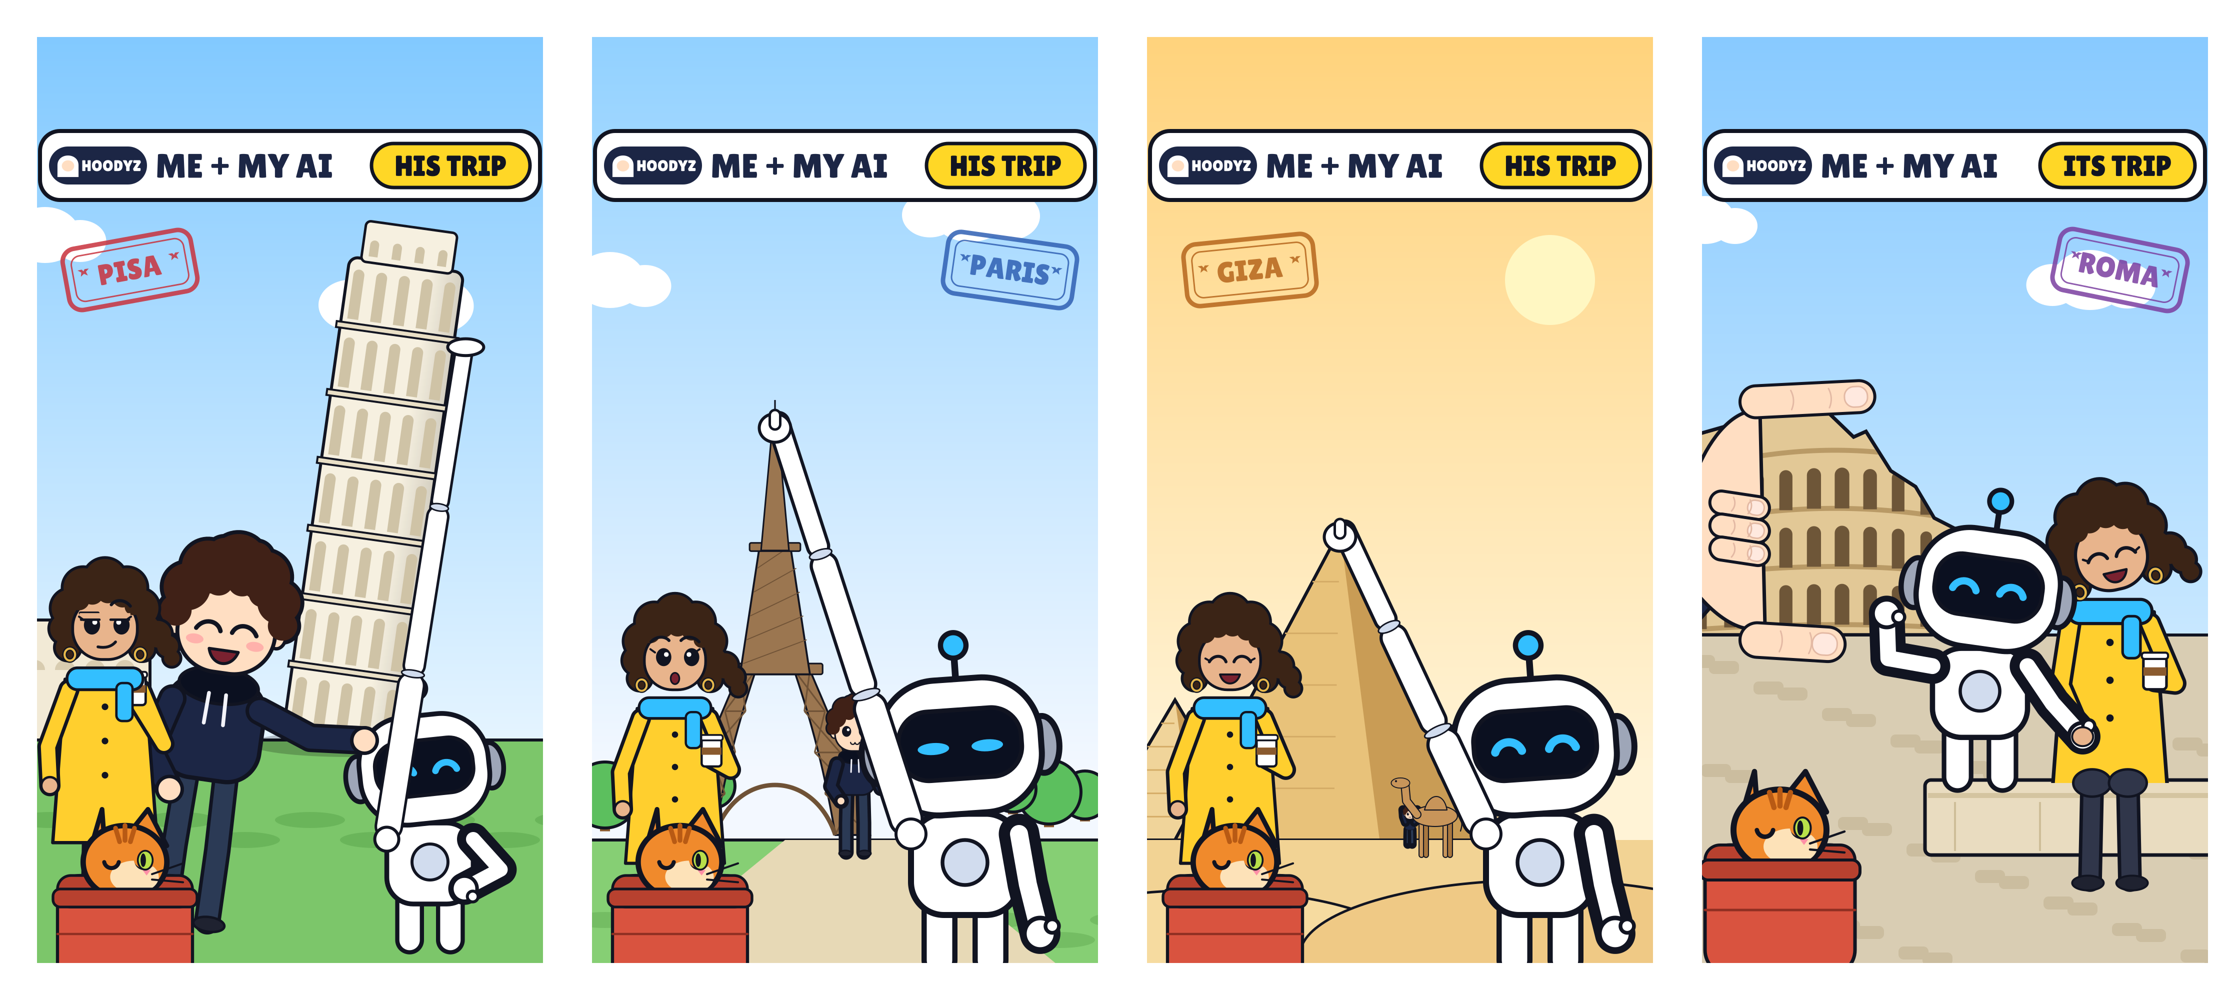
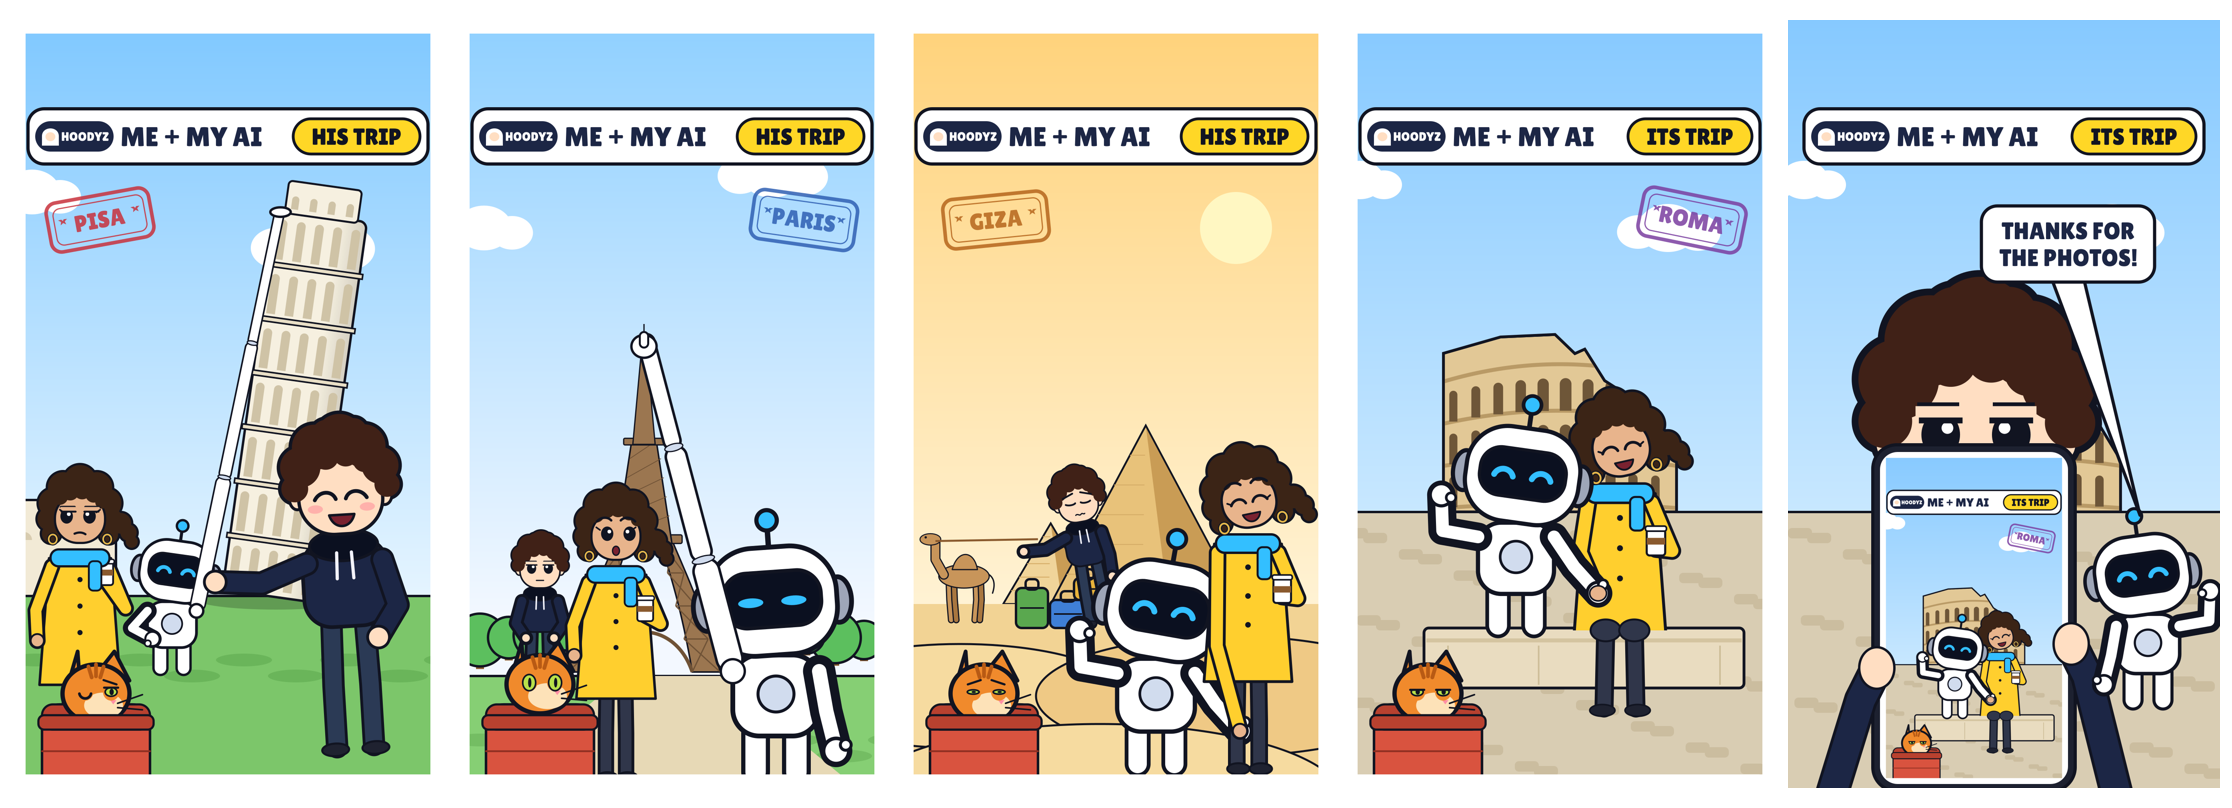
Perfect Trip v4 album: Hoody loses his role (hero, extra, assistant, cameraman)
Pisa: Hoody the hero in front, MY AI propping the top with its telescopic arm, Eva bored.
Paris: Hoody a small annoyed extra at the left, Eva turned to the robot. Giza: MY AI and Eva
pose hand in hand while Hoody drags the luggage and a camel that won't budge. Rome: the couple,
no Hoody; then the reveal - the photo on the phone in his hands, MY AI: THANKS FOR THE PHOTOS!
The cat's mood changes per photo: suspicious, shocked, disapproving, resigned.

Claude-Session: https://claude.ai/code/session_01ED8DLRS3kXn1pdhXqYBM3Q

diff --git a/perfect-selfie/trip_photos.py b/perfect-selfie/trip_photos.py
@@ -1,100 +1,179 @@
-"""Perfect Trip - the three album photos before Rome, as stills for approval.
-Each photo: the place, MY AI's perfect forced-perspective pose, Hoody's failed copy (smaller every time), Eva charmed by
-the robot, and the cat's head out of the backpack in the same bottom-left corner. python3 trip_photos.py writes trip_photos.png."""
+"""Perfect Trip - the album, v4: Hoody loses his ROLE, not just his size.
+PISA hero -> PARIS extra -> GIZA assistant -> ROME cameraman. Eva's attention moves to MY AI (bored, surprised, delighted,
+holding its hand); the cat in the backpack knows first (suspicious, shocked, disapproving, resigned).
+Then the reveal: the Rome photo is on the phone in Hoody's hands. python3 trip_photos.py writes trip_photos.png."""
 import os, sys, math, cairo
 HERE = os.path.dirname(os.path.abspath(__file__)); sys.path.insert(0, HERE)
-import photo as PH                     # Rome photo + shared helpers (backpack_cat), and through it Perfect Date's characters
+import photo as PH                     # shared helpers (ledge, backpack) and Perfect Date's characters through it
 import places as P
 from photo import R, K, Sh, E, A
-from kit import INK, WHITE, NAVY, rr, fs, ell, limb, hx
+from kit import INK, WHITE, NAVY, rr, fs, ell, limb, hx, txt
 W, H = 1080, 1920
 CAMEL, CAMEL_D = hx('c8955a'), hx('a8763f')
+K.FACES['bored'] = ('half', ('flat', 'flat'), 'meh')
 
+# ---------------- shared pieces
 def frame(c, place, label='HIS TRIP'):
     P.stamp(c, place)
     c.rectangle(0, 0, W, H); c.rectangle(34, 34, W - 68, H - 68); c.set_fill_rule(cairo.FILL_RULE_EVEN_ODD); c.set_source_rgb(*WHITE); c.fill()
     c.set_fill_rule(cairo.FILL_RULE_WINDING)
     Sh.topbar(c, label)
 
-def camel(c, x, gy, s, f=0):
-    """A walking camel, facing left: legs, body, one hump, a long curved neck."""
-    c.save(); c.translate(x, gy); c.scale(s, s)
-    for k, (lx, ph) in enumerate(((-90, 0), (-60, math.pi), (70, math.pi), (100, 0))):
-        sw = math.sin(f * .3 + ph) * 18
-        limb(c, [(lx, -230), (lx + sw * .5, -120), (lx + sw, 0)], 26, CAMEL_D if k % 2 else CAMEL)
-    ell(c, 0, -260, 150, 70); fs(c, CAMEL, 7)
-    c.move_to(-70, -300); c.curve_to(-40, -420, 60, -420, 80, -300); c.close_path(); fs(c, CAMEL, 7)           # the hump
-    limb(c, [(-120, -270), (-190, -360), (-200, -470)], 46, CAMEL)                                              # the neck
-    ell(c, -230, -480, 62, 34); fs(c, CAMEL, 6); ell(c, -260, -492, 7, 7); c.set_source_rgb(*INK); c.fill()      # head, eye
-    c.move_to(150, -270); c.curve_to(190, -240, 180, -190, 170, -160); c.set_source_rgb(*INK); c.set_line_width(8); c.stroke()  # tail
+def backpack_cat(c, x, y, s=.9, mood='suspicious'):
+    """Hoody's red backpack, bottom left of every photo, the cat's head out of it. She understands before he does:
+    suspicious (one eye, a lowered brow) -> shocked (both eyes round) -> disapproving (slits, brows down) -> resigned (half lids)."""
+    c.save(); c.translate(x, y); c.scale(s, s)
+    rr(c, -150, -10, 300, 260, 50); fs(c, hx('d9533f'), 7)
+    rr(c, -150, -10, 300, 70, 30); fs(c, hx('b8412f'), 6)
+    c.move_to(-150, 120); c.line_to(150, 120); c.set_source_rgb(*hx('8f2f22')); c.set_line_width(5); c.stroke()
+    hs = 1.5; c.save(); c.translate(0, -40)
+    if mood == 'shocked': c.translate(0, -26)                                # she sits up
+    K._cat_head(c, 0, 0, hs, False, 'sleep', 0)
+    c.scale(hs, hs)
+    for q in (-1, 1):
+        ex, ey = q * 24 + 4, -3
+        ell(c, ex, ey, 15, 16); c.set_source_rgb(*K.TABBY); c.fill()         # clear the sleeping eye
+        if mood == 'suspicious' and q == -1:
+            c.arc(ex, ey + 1, 11, .2, math.pi - .2); c.set_source_rgb(*INK); c.set_line_width(5); c.stroke(); continue
+        h = {'suspicious': 8, 'shocked': 15, 'disapproving': 4, 'resigned': 7}[mood]
+        ell(c, ex, ey, 12 if mood == 'shocked' else 11, h); fs(c, hx('b8e04a'), 3)
+        ell(c, ex + 1, ey, 3 if mood == 'shocked' else 4, min(h - 2, 9)); c.set_source_rgb(*INK); c.fill()
+        if mood in ('resigned', 'suspicious'):                               # a heavy upper lid
+            c.rectangle(ex - 14, ey - 18, 28, 14 if mood == 'resigned' else 10); c.set_source_rgb(*K.TABBY); c.fill()
+            c.move_to(ex - 13, ey - 4 - (0 if mood == 'resigned' else 4)); c.line_to(ex + 13, ey - 4 - (0 if mood == 'resigned' else 4))
+            c.set_source_rgb(*INK); c.set_line_width(4); c.stroke()
+        if mood in ('disapproving', 'suspicious'):                           # brows down towards the middle
+            c.move_to(ex - q * 14, ey - 22); c.line_to(ex + q * 10, ey - 14); c.set_source_rgb(*INK); c.set_line_width(4); c.stroke()
+    c.restore()
+    rr(c, -160, 20, 320, 40, 16); fs(c, hx('b8412f'), 6)
     c.restore()
 
+def camel(c, x, gy, s, f=0, pull=0):
+    """A camel facing left; pull leans its neck away (it won't budge)."""
+    c.save(); c.translate(x, gy); c.scale(s, s)
+    for k, lx in enumerate((-90, -60, 70, 100)): limb(c, [(lx, -230), (lx + 4, -120), (lx + (14 if k < 2 else -6), 0)], 26, CAMEL_D if k % 2 else CAMEL)
+    ell(c, 0, -260, 150, 70); fs(c, CAMEL, 7)
+    c.move_to(-70, -300); c.curve_to(-40, -420, 60, -420, 80, -300); c.close_path(); fs(c, CAMEL, 7)
+    limb(c, [(-120, -270), (-190 + pull, -360), (-200 + pull * 1.5, -470)], 46, CAMEL)
+    ell(c, -230 + pull * 1.5, -480, 62, 34); fs(c, CAMEL, 6); ell(c, -258 + pull * 1.5, -492, 7, 7); c.set_source_rgb(*INK); c.fill()
+    c.move_to(150, -270); c.curve_to(190, -240, 180, -190, 170, -160); c.set_source_rgb(*INK); c.set_line_width(8); c.stroke()
+    c.restore()
+    return (x + (-200 + pull * 1.5) * s, gy - 470 * s)                         # where the rope ties (its head)
+
+def suitcase(c, x, y, w, h, col):
+    rr(c, x - w / 2, y - h, w, h, 14); fs(c, hx(col), 6)
+    rr(c, x - w * .2, y - h - 22, w * .4, 26, 10); c.set_source_rgb(*INK); c.set_line_width(6); c.stroke()
+    c.move_to(x - w / 2 + 10, y - h * .5); c.line_to(x + w / 2 - 10, y - h * .5); c.set_line_width(4); c.stroke()
+
 def tele_arm(c, rx, gy, rs, q, target, tip='finger'):
-    """MY AI's telescopic arm (it's a robot): from its shoulder, nested white segments out to a target point.
-    tip: 'finger' (one finger up: something balances on it) or 'palm' (an open palm, facing up: it holds something up)."""
+    """MY AI's telescopic arm: nested white sections from its shoulder to a target. tip: 'finger' or 'palm' (up)."""
     sh = (rx + q * A.SHOULDER[0] * rs, gy - 280 * rs + A.SHOULDER[1] * rs)
     dx, dy = target[0] - sh[0], target[1] - sh[1]; L = math.hypot(dx, dy); ang = math.atan2(dy, dx)
     c.save(); c.translate(*sh); c.rotate(ang)
-    for k, w in enumerate((26, 21, 17)):                                    # three nested sections, each thinner
+    for k, w in enumerate((26, 21, 17)):
         a, b = L * k / 3 - (6 if k else 0), L * (k + 1) / 3
         rr(c, a, -w * rs / 1.2, b - a, w * rs / .6, w * rs / 1.2); fs(c, WHITE, max(4, 6 * rs / 1.4))
-        if k: ell(c, a + 4, 0, 6 * rs, w * rs / 1.1); fs(c, A.CHEST, 3)      # the collar where a section slides out
+        if k: ell(c, a + 4, 0, 6 * rs, w * rs / 1.1); fs(c, A.CHEST, 3)
     c.restore()
     if tip == 'finger':
-        ell(c, target[0], target[1] + 20 * rs, 21 * rs, 19 * rs); fs(c, WHITE, 6)                       # the mitt...
-        rr(c, target[0] - 7 * rs, target[1] - 4 * rs, 14 * rs, 26 * rs, 7 * rs); fs(c, WHITE, 5)        # ...one finger up
+        ell(c, target[0], target[1] + 20 * rs, 21 * rs, 19 * rs); fs(c, WHITE, 6)
+        rr(c, target[0] - 7 * rs, target[1] - 4 * rs, 14 * rs, 26 * rs, 7 * rs); fs(c, WHITE, 5)
     else:
-        ell(c, target[0], target[1] + 12 * rs, 30 * rs, 14 * rs); fs(c, WHITE, 6)                       # a flat palm, up
+        ell(c, target[0], target[1] + 12 * rs, 30 * rs, 14 * rs); fs(c, WHITE, 6)
     ell(c, *sh, 20 * rs, 20 * rs); fs(c, WHITE, 6)
 
+# ---------------- the four photos
 def pisa(c, f=0):
-    """Hoody full height, leaning in with his palm on the tower's low side: pushing it over. MY AI reaches its telescopic arm
-    up under the overhang: holding it up. Eva laughing at the robot's perfect pose."""
+    """HERO. Hoody proudly does the classic pose right, palms 'holding up' the leaning tower. MY AI helps too keenly:
+    its telescopic arm props the very top. Eva bored. The cat suspicious."""
     P.pisa(c, f)
-    edge = lambda y, q: 640 + math.tan(math.radians(8)) * (P.GY - 60 - y) + q * 115     # the tower's side at height y
-    rx, rgy, rs = 820, 1840, 1.2
-    A.myai(c, rx, rgy, rs, eye='happy', arms=(None, 'hip'), tilt=-6)
-    tele_arm(c, rx, rgy, rs, -1, (edge(640, 1) + 24, 640), tip='palm')
-    R.hoody(c, 330, 1810, .98, expr='happy', arms=('rest', 'out'), rot=.14, f=f)          # leaning in, pushing
-    E.eva(c, 170, 1860, .95, 'amused', sip=.6, gaze=18)
-    PH.backpack_cat(c, 210, 1720, .9)
+    edge = lambda y, q: 640 + math.tan(math.radians(8)) * (P.GY - 60 - y) + q * 115
+    A.myai(c, 400, 1620, .85, eye='happy', arms=('hip', None), tilt=8)       # further back, left of the tower
+    tele_arm(c, 400, 1620, .85, 1, (edge(470, -1) + 10, 470), tip='palm')   # propping the very top: helping too keenly
+    E.eva(c, 170, 1870, .92, 'bored', sip=.5, gaze=-14)
+    R.hoody(c, 860, 1830, 1.05, expr='happy', arms=('out', 'rest'), rot=-.06, f=f)   # the hero: in front, biggest, palm to the tower
+    backpack_cat(c, 210, 1720, .9, 'suspicious')
     frame(c, 'pisa')
 
 def paris(c, f=0):
-    """Hoody knee-high, far back by the tower, a finger up his own nose. MY AI's telescopic arm: the spire balanced on one fingertip."""
-    rx, rgy, rs, hz = 780, 1880, 1.5, 1640
-    tipxy = (400, 760)
+    """EXTRA. MY AI in front with the spire on its fingertip; Eva turned to it, surprised. Hoody small at the left, whole and annoyed."""
+    rx, rgy, rs, hz = 800, 1880, 1.5, 1640
+    tipxy = (470, 760)
     s = ((hz - 10) - tipxy[1]) / 1370
     P.paris(c, f, s=s, cx0=tipxy[0], horizon=hz)
-    R.hoody(c, 560, hz + 30, .4, expr='calm', arms=('rest', 'chin'), f=f)   # far back on the path; finger to his nose
-    E.eva(c, 200, 1890, .9, 'impressed', sip=.2, gaze=16)
+    R.hoody(c, 210, hz + 40, .5, expr='deadpan', arms=('rest', 'rest'), f=f)      # an extra in his own trip
+    E.eva(c, 400, 1900, .9, 'impressed', sip=.2, gaze=18)
     A.myai(c, rx, rgy, rs, eye='focus', arms=(None, 'down'), tilt=-4)
     tele_arm(c, rx, rgy, rs, -1, (tipxy[0], tipxy[1] + 26), tip='finger')
-    PH.backpack_cat(c, 210, 1720, .9)
+    backpack_cat(c, 210, 1720, .9, 'shocked')
     frame(c, 'paris')
 
 def giza(c, f=0):
-    """Hoody a dot in the sand, waving; a camel walks in front of him, bigger than he is. MY AI's fingertip on the pyramid's tip."""
-    rx, rgy, rs, hz = 820, 1880, 1.5, 1640
-    tipxy = (420, 980)
-    s = ((hz - 40 + 40 - 40) - tipxy[1]) / 620
-    P.egypt(c, f, s=s, cx0=tipxy[0] - 20 * s, horizon=hz)
-    R.hoody(c, 560, hz + 10, .1, expr='calm', arms=('up', 'up'), f=f)    # a dot, waving
-    camel(c, 610, hz + 30, .3, f)
-    E.eva(c, 200, 1890, .9, 'charmed', sip=.2, gaze=16)
-    A.myai(c, rx, rgy, rs, eye='happy', arms=(None, 'down'), tilt=-4)
-    tele_arm(c, rx, rgy, rs, -1, (tipxy[0], tipxy[1] + 24), tip='finger')
-    PH.backpack_cat(c, 210, 1720, .9)
+    """ASSISTANT. MY AI and Eva pose together, delighted. Behind them Hoody drags the luggage and the camel won't budge."""
+    P.egypt(c, f, s=.72, cx0=600, horizon=1460)
+    rope_to = camel(c, 160, 1500, .42, f, pull=20)
+    for (x, y, w, h, col) in ((420, 1520, 90, 70, '3f7fd6'), (470, 1450, 70, 55, 'e8b23a'), (330, 1520, 80, 100, '5aa84f')):
+        suitcase(c, x, y, w, h, col)
+    hands, _ = R.hoody(c, 500, 1510, .5, expr='wince', arms=('out', 'down'), rot=-.18, f=f)   # leaning into the rope
+    c.move_to(*hands[0]); c.line_to(*rope_to); c.set_source_rgb(*hx('8a5a2e')); c.set_line_width(5); c.stroke()
+    A.myai(c, 640, 1860, 1.35, eye='happy', arms=('wave', 'hold'), tilt=10)
+    hp = A.hand_at(640, 1860, 1.35, 1, 'hold')
+    E.eva(c, 870, 1880, 1.0, 'laugh', sip=.1, tilt=-.2, pose='holdlow', hand_to=hp)
+    backpack_cat(c, 210, 1720, .9, 'disapproving')
     frame(c, 'giza')
 
-PHOTOS = dict(pisa=pisa, paris=paris, giza=giza, rome=lambda c, f=0: PH.photo(c, f))
+def rome(c, f=0, label='ITS TRIP', stamp=True):
+    """CAMERAMAN, part 1: the couple photo. Eva holding MY AI's hand on the ledge before the Colosseum. No Hoody at all."""
+    P.rome(c, f, s=.62, cx=540, horizon=1230)
+    TOP = 1520
+    PH.ledge(c, 200, 1000, TOP)
+    es, ex = 1.05, 690
+    rx, rs = 430, 1.32
+    hp = A.hand_at(rx, TOP - 6, rs, 1, 'hold')
+    c.save(); c.rectangle(0, 0, W, TOP + 6); c.clip()
+    E.eva(c, ex, TOP + 250 * es, es, 'charmed', sip=.1, tilt=-.22, pose='holdlow', hand_to=hp); c.restore()
+    for q in (-1, 1):
+        limb(c, [(ex + q * 34 * es, TOP + 4), (ex + q * 38 * es, TOP + 200)], 32 * es, E.TROUS)
+        ell(c, ex + q * 34 * es, TOP + 6, 36 * es, 26 * es); fs(c, E.TROUS, 5)
+        ell(c, ex + q * 42 * es, TOP + 206, 30 * es, 14 * es); fs(c, E.SHOE, 4)
+    A.myai(c, rx, TOP - 6, rs, eye='happy', arms=('wave', 'hold'), tilt=8)
+    ell(c, *hp, 20 * es, 18 * es); fs(c, E.SKIN_E, 4)
+    backpack_cat(c, 210, 1720, .9, 'resigned')
+    if stamp: P.stamp(c, 'rome')
+    c.rectangle(0, 0, W, H); c.rectangle(34, 34, W - 68, H - 68); c.set_fill_rule(cairo.FILL_RULE_EVEN_ODD); c.set_source_rgb(*WHITE); c.fill()
+    c.set_fill_rule(cairo.FILL_RULE_WINDING)
+    Sh.topbar(c, label)
+
+_ROME = None
+def rome_reveal(c, f=0):
+    """CAMERAMAN, part 2: pull back - the photo is on the phone in Hoody's hands; his annoyed face over the top of it.
+    MY AI, at the right, says thanks."""
+    global _ROME
+    if _ROME is None:
+        _ROME = cairo.ImageSurface(cairo.FORMAT_RGB24, W, H); rome(cairo.Context(_ROME), 0, stamp=True)
+    P.rome(c, f, s=.62, cx=540, horizon=1230)
+    K.hoodie(c, 470, 1020 + 150 * 2.1, 2.1 * 1.1)                           # Hoody, close, behind his phone
+    K.hoodyz_head(c, 470, 1020, 2.1, era='young', expr='deadpan', blink=False, gaze=0)
+    px, py, pw, ph = 230, 1080, 470, 830                                    # the phone, held up in front of his chest
+    rr(c, px - 18, py - 18, pw + 36, ph + 36, 60); fs(c, hx('1d2130'), 8)
+    c.save(); rr(c, px, py, pw, ph, 44); c.clip()
+    c.translate(px, py); c.scale(pw / W, ph / H); c.set_source_surface(_ROME, 0, 0); c.paint(); c.restore()
+    for q, hy_ in ((-1, 1620), (1, 1560)):                                  # his hands on the phone's sides, sleeves from below
+        hx_ = px - 8 if q < 0 else px + pw + 8
+        limb(c, [(hx_ + q * 120, 1960), (hx_ + q * 40, hy_ + 80), (hx_, hy_)], 70, NAVY)
+        ell(c, hx_, hy_, 44, 52); fs(c, K.SKIN, 6)
+    A.myai(c, 900, 1700, 1.1, eye='happy', arms=('down', 'wave'), tilt=-8)
+    PH.R.bubble(c, ['THANKS FOR', 'THE PHOTOS!'], 10, (900 - 20, 1700 - 420 * 1.1), cy=560, cx=700, size=60)
+    Sh.topbar(c, 'ITS TRIP')
+
+PHOTOS = dict(pisa=pisa, paris=paris, giza=giza, rome=rome, reveal=rome_reveal)
 
 if __name__ == '__main__':
     from PIL import Image
     ims = []
     for name, fn in PHOTOS.items():
         S = cairo.ImageSurface(cairo.FORMAT_RGB24, W, H); c = cairo.Context(S); fn(c, 0)
-        p = os.path.join(HERE, f'_{name}.png'); S.write_to_png(p); ims.append(Image.open(p).convert('RGB').resize((540, 960))); os.remove(p)
-    sheet = Image.new('RGB', (540 * 4 + 60, 960 + 40), 'white')
-    for i, im in enumerate(ims): sheet.paste(im, (20 + i * 555, 20))
+        p = os.path.join(HERE, f'_{name}.png'); S.write_to_png(p); ims.append(Image.open(p).convert('RGB').resize((432, 768))); os.remove(p)
+    sheet = Image.new('RGB', (432 * 5 + 72, 768 + 40), 'white')
+    for i, im in enumerate(ims): sheet.paste(im, (12 + i * 444, 20))
     sheet.save(os.path.join(HERE, 'trip_photos.png')); print('trip_photos.png')
